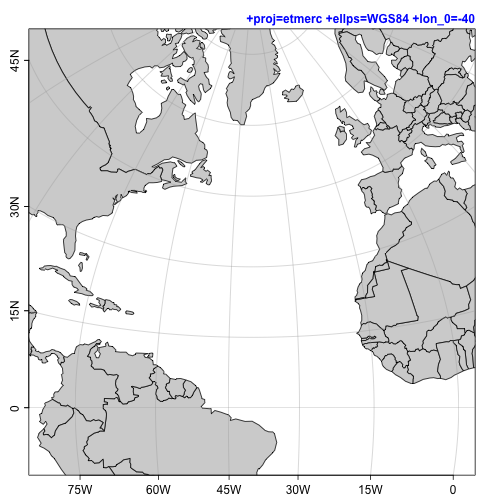
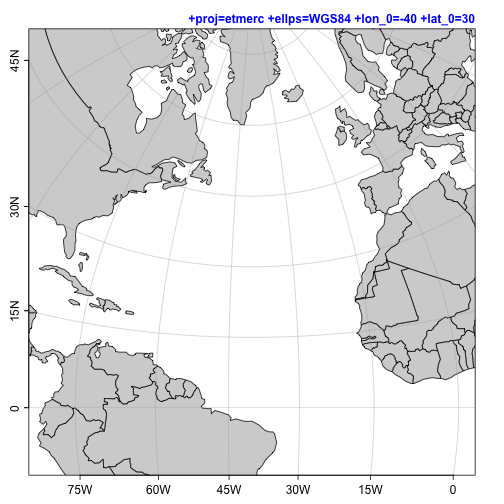
.

Changed region(s): [[0.3571, 0.0298, 0.9226, 0.0595]]

diff --git a/_site/r/2015/04/03/oce-proj.html b/_site/r/2015/04/03/oce-proj.html
@@ -103,15 +103,15 @@
 
 <p>Through the early months of 2015, efforts were made to incorporate PROJ.4
 projections into the oce R package. An earlier attempt had relied on the proj4
-package, but this package has the disadvantage of reporting an error if any
+R package, but this package has the disadvantage of reporting an error if any
 point in a polygon cannot be projected, so it had to be called pointwise on
 coastline vectors, at significant time cost (minutes for many practical cases).
 The next step was to incorporate PROJ.4 code into oce itself.  This was used in
-oce version 0.9-17, available on the CRAN archive. However, a CRAN member
+oce version 0.9-17. However, a CRAN member
 suggested removing the PROJ.4 code from oce when 0.9-17 was being vetted, and
-so later versions have the ‘oce’ package relying on the ‘rgdal’ package.</p>
+so later versions of ‘oce’ rely on the ‘rgdal’ package.</p>
 
-<p>Note that only PROJ.4 projections that have inverses are available in oce.
+<p>Oce only provides those PROJ.4 projections that have inverses.
 This is because oce needs to do inverse projections for some of its plotting
 operations. Also note that a handful of projections have not been incorporated,
 because they cause errors of various sorts; see <a href="https://github.com/dankelley/oce/issues/635">oce issue
@@ -340,7 +340,7 @@ book</a>.</p>
 <figure class="highlight"><pre><code class="language-r" data-lang="r"><table class="rouge-table"><tbody><tr><td class="gutter gl"><pre class="lineno">1
 2
 3
-</pre></td><td class="code"><pre><span class="n">p</span><span class="w"> </span><span class="o">&lt;-</span><span class="w"> </span><span class="s2">"+proj=etmerc +ellps=WGS84 +lon_0=-40"</span><span class="w">
+</pre></td><td class="code"><pre><span class="n">p</span><span class="w"> </span><span class="o">&lt;-</span><span class="w"> </span><span class="s2">"+proj=etmerc +ellps=WGS84 +lon_0=-40 +lat_0=30"</span><span class="w">
 </span><span class="n">mapPlot</span><span class="p">(</span><span class="n">coastlineWorld</span><span class="p">,</span><span class="w"> </span><span class="n">projection</span><span class="o">=</span><span class="n">p</span><span class="p">,</span><span class="w"> </span><span class="n">longitudelim</span><span class="o">=</span><span class="nf">c</span><span class="p">(</span><span class="m">-80</span><span class="p">,</span><span class="w"> </span><span class="m">0</span><span class="p">),</span><span class="w"> </span><span class="n">latitudelim</span><span class="o">=</span><span class="nf">c</span><span class="p">(</span><span class="m">0</span><span class="p">,</span><span class="w"> </span><span class="m">60</span><span class="p">),</span><span class="w"> </span><span class="n">col</span><span class="o">=</span><span class="n">col</span><span class="p">)</span><span class="w">
 </span><span class="n">mtext</span><span class="p">(</span><span class="n">p</span><span class="p">,</span><span class="w"> </span><span class="n">line</span><span class="o">=</span><span class="n">line</span><span class="p">,</span><span class="w"> </span><span class="n">adj</span><span class="o">=</span><span class="m">1</span><span class="p">,</span><span class="w"> </span><span class="n">col</span><span class="o">=</span><span class="n">pcol</span><span class="p">,</span><span class="w"> </span><span class="n">font</span><span class="o">=</span><span class="n">font</span><span class="p">)</span></pre></td></tr></tbody></table></code></pre></figure>
 

diff --git a/_posts/2015-04-03-oce-proj.md b/_posts/2015-04-03-oce-proj.md
@@ -212,7 +212,7 @@ mtext(p, line=line, adj=1, col=pcol, font=font)
 ![center](http://dankelley.github.io/figs/2015-04-03-oce-proj/unnamed-chunk-1-20.png)
 
 {% highlight r linenos=table %}
-p <- "+proj=etmerc +ellps=WGS84 +lon_0=-40"
+p <- "+proj=etmerc +ellps=WGS84 +lon_0=-40 +lat_0=30"
 mapPlot(coastlineWorld, projection=p, longitudelim=c(-80, 0), latitudelim=c(0, 60), col=col)
 mtext(p, line=line, adj=1, col=pcol, font=font)
 {% endhighlight %}
